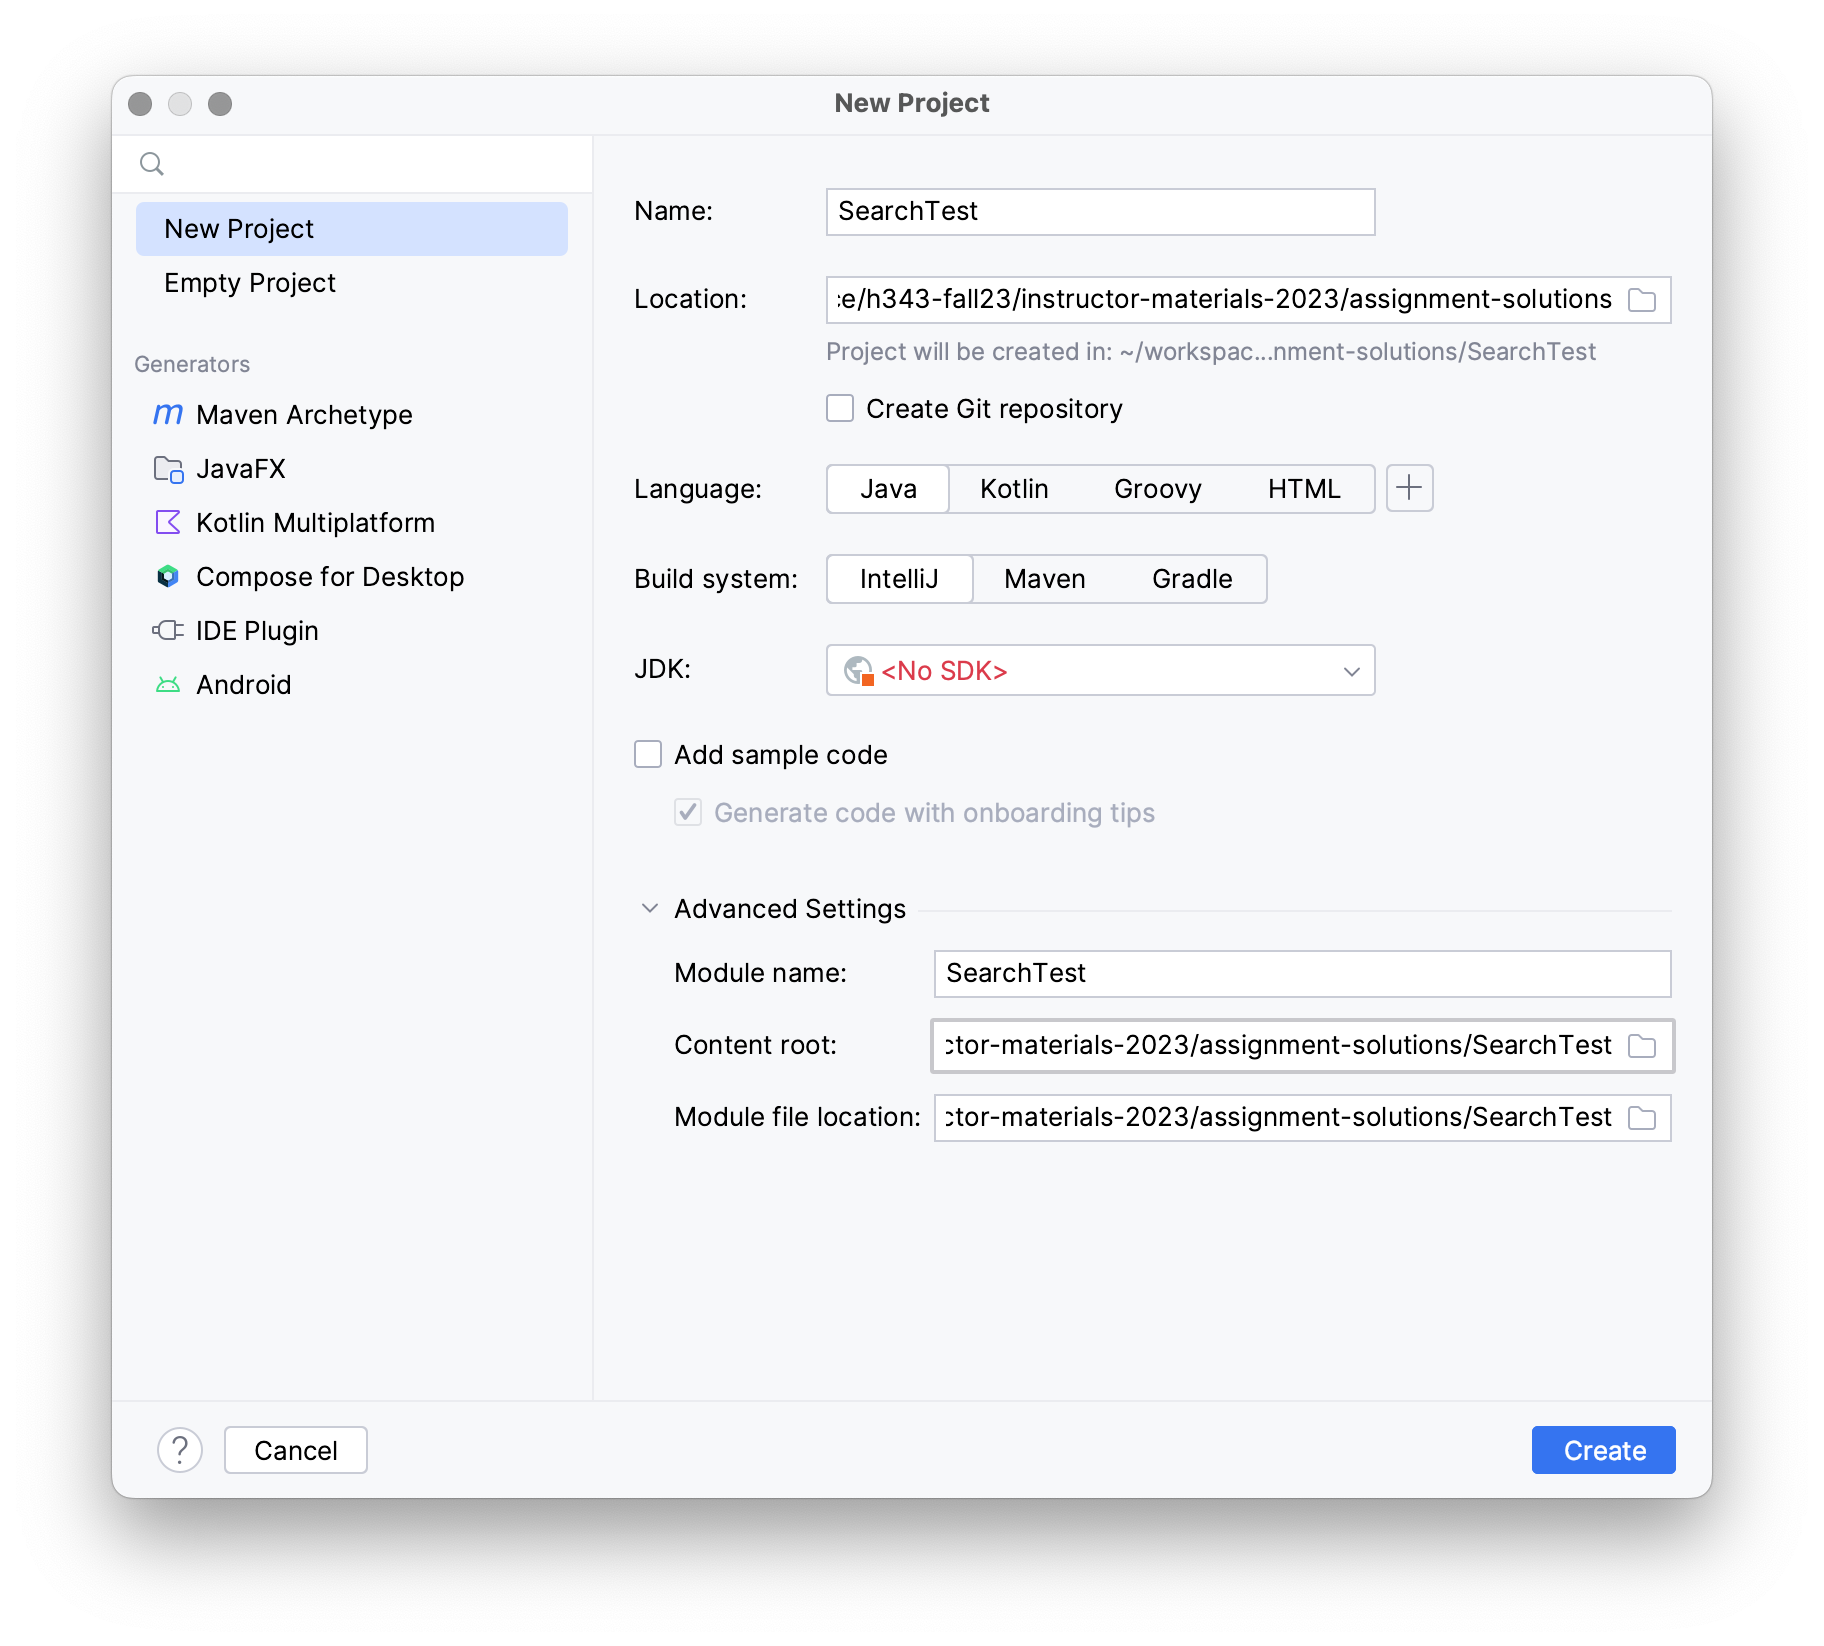
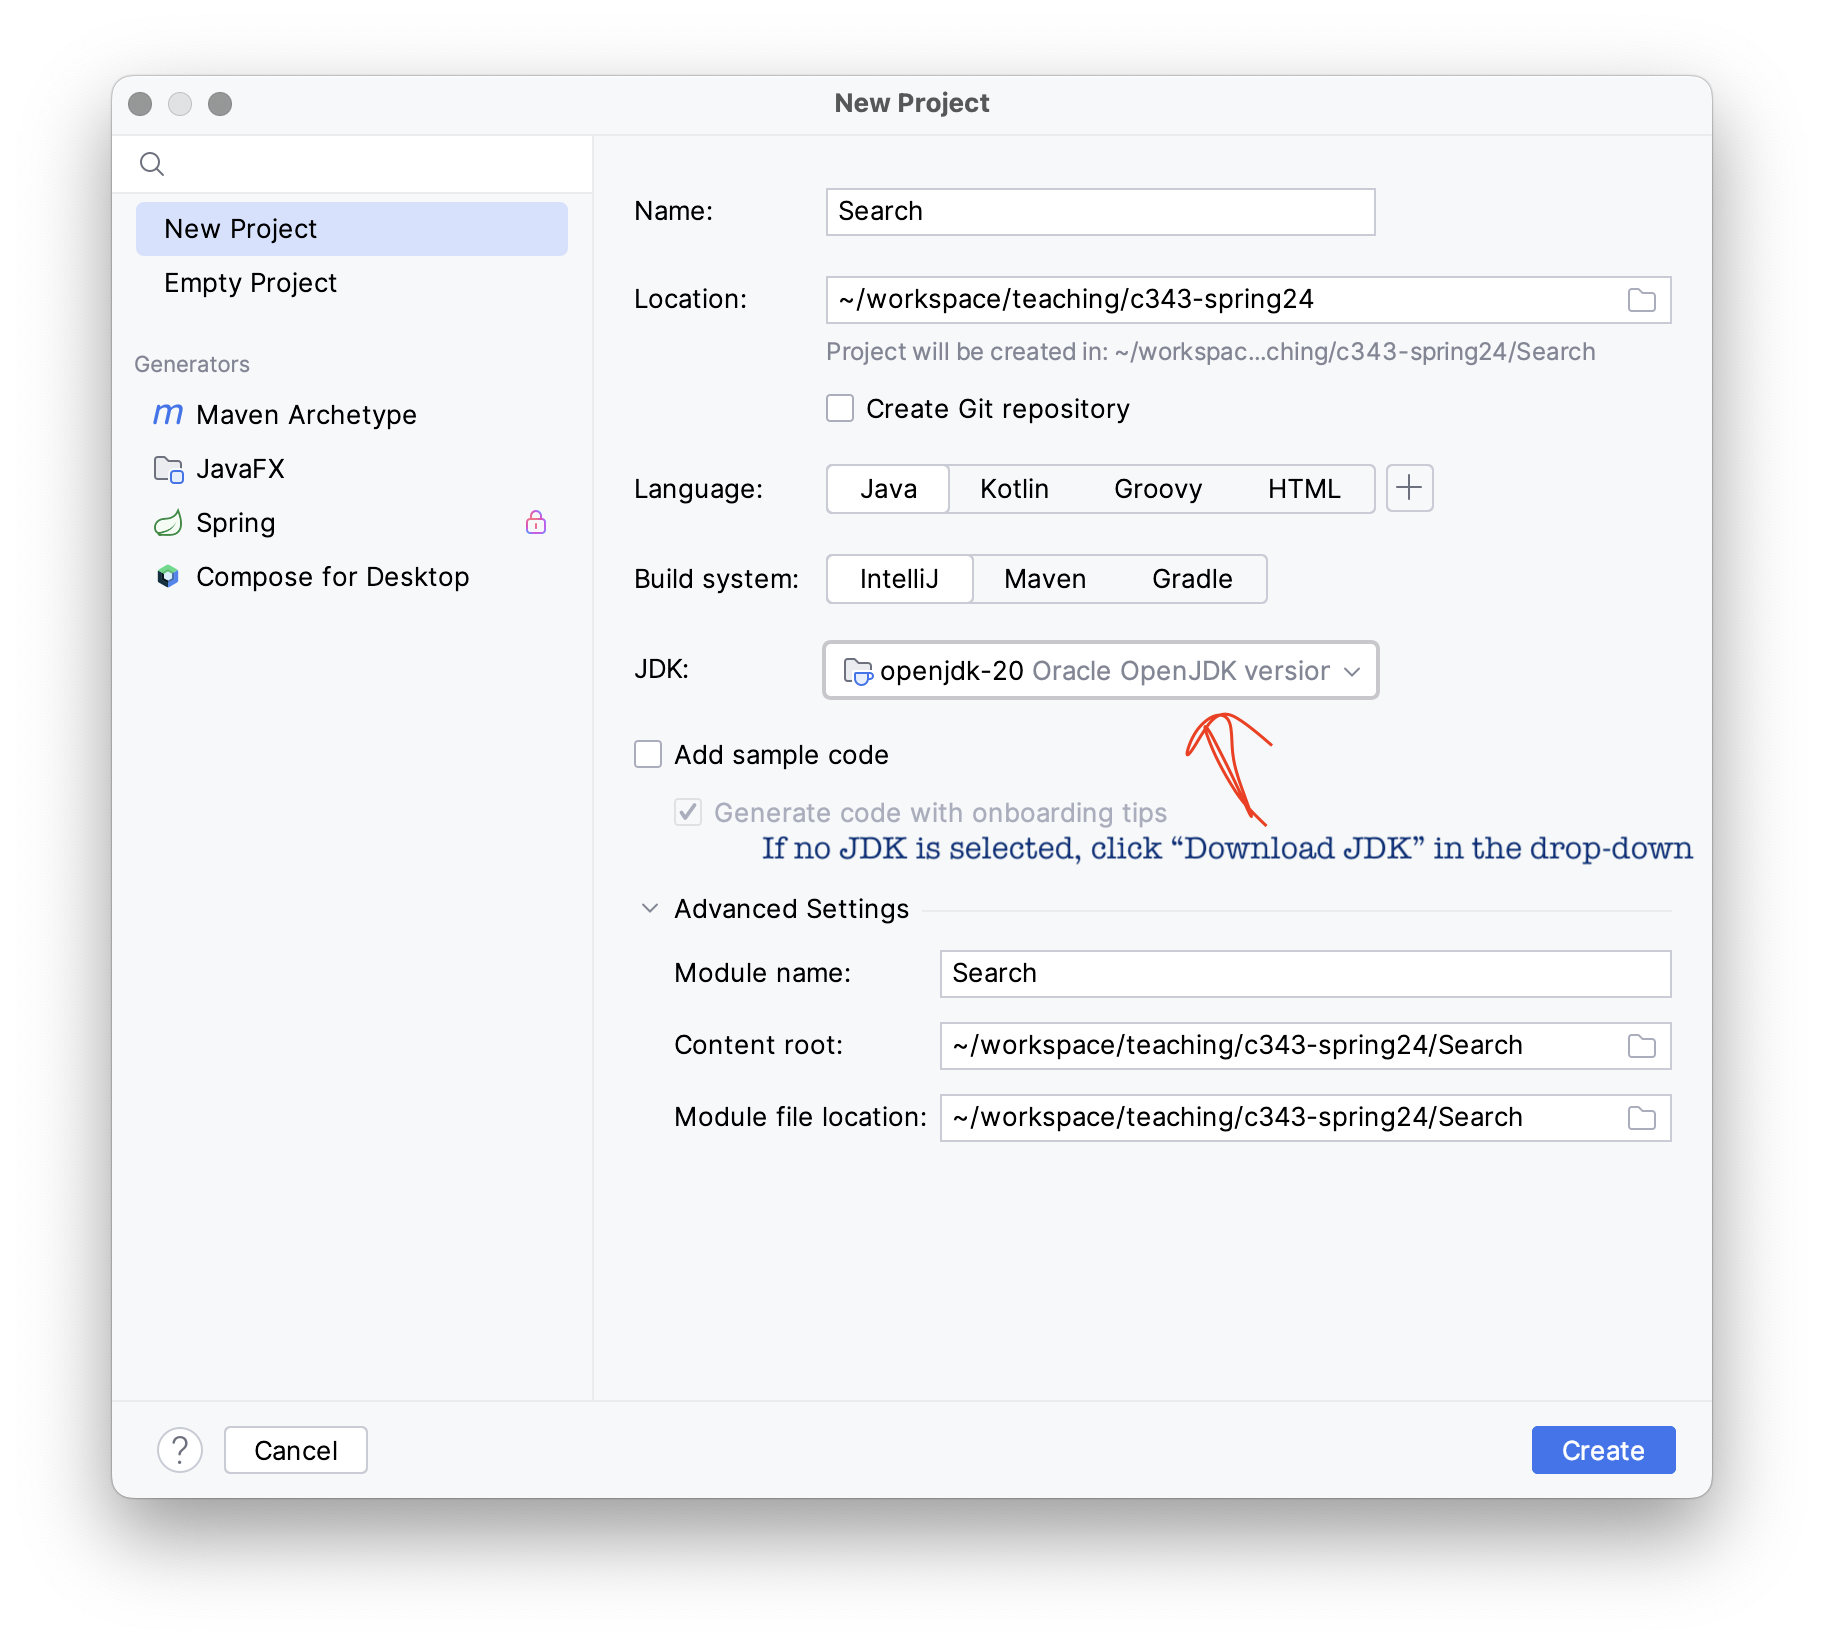
lab 1: rename everywhere as well as some edits

diff --git a/lab1.md b/lab1.md
@@ -28,15 +28,15 @@ cases to Autograder.
   - In the welcome window, click "New Project".
     In general, we create a new project for each lab. Sometimes a project code
     skeleton is provided to you; in that case, you can use the "Open" button
-    to choose the root directory of that project.
+    to choose the root directory of that project:
     ![](assets/images/lab1/welcome.png)
   - In the pop-up window, enter the title of your lab assignment as "Name".
-    For lab 1, it should be `ArraySearch`.
+    For lab 1, it should be `Search`.
   - Choose "Location", which is whatever directory that you prefer to contain
     all lab assignments. (Optional: ) check "Create Git repository" if you would
     like to use version control.
   - Language: "Java"; build systems: "IntelliJ"
-  - Install JDK. Click "Add SDK -> Download JDK" in the "JDK" drop-down menu
+  - Install JDK. Click "Add SDK -> Download JDK" in the "JDK" drop-down menu:
     ![](assets/images/lab1/install_jdk.png)
   - In the pop-up window choose "Vendor" : "Oracle OpenJDK". "Version" should
     be filled in automatically (make sure version ≥15). "Location" can be left as default.
@@ -52,13 +52,14 @@ In this section I will show you how to:
 - Build and run the code
 - Debug and test
 
-You can download a copy of this demo [here](assets/RotationTest.tar.gz).
+<!-- You can download a copy of this demo [here](assets/RotationTest.tar.gz). -->
 
-We first create a IntelliJ project "RotationTest". After creation, the file structure looks like:
+Suppose our tasks are to implement and test the "ripple" approach of array rotation.
+We first create an IntelliJ project called "Rotation". The file structure looks like:
 ![](assets/images/lab1/mint_proj.png)
 
-Suppose we are to implement the "ripple" approach of array rotation. We right click on the
-`src` directory in the file structure and choose **"Java Class"**.
+To create the Java class file where our implementation code resides, we right click 
+on the `src` directory and choose **"Java Class"**:
 ![](assets/images/lab1/new_java_class.png)
 
 We enter "Rotation" as its name. IntelliJ creates a new file `src/Rotation.java` whose
